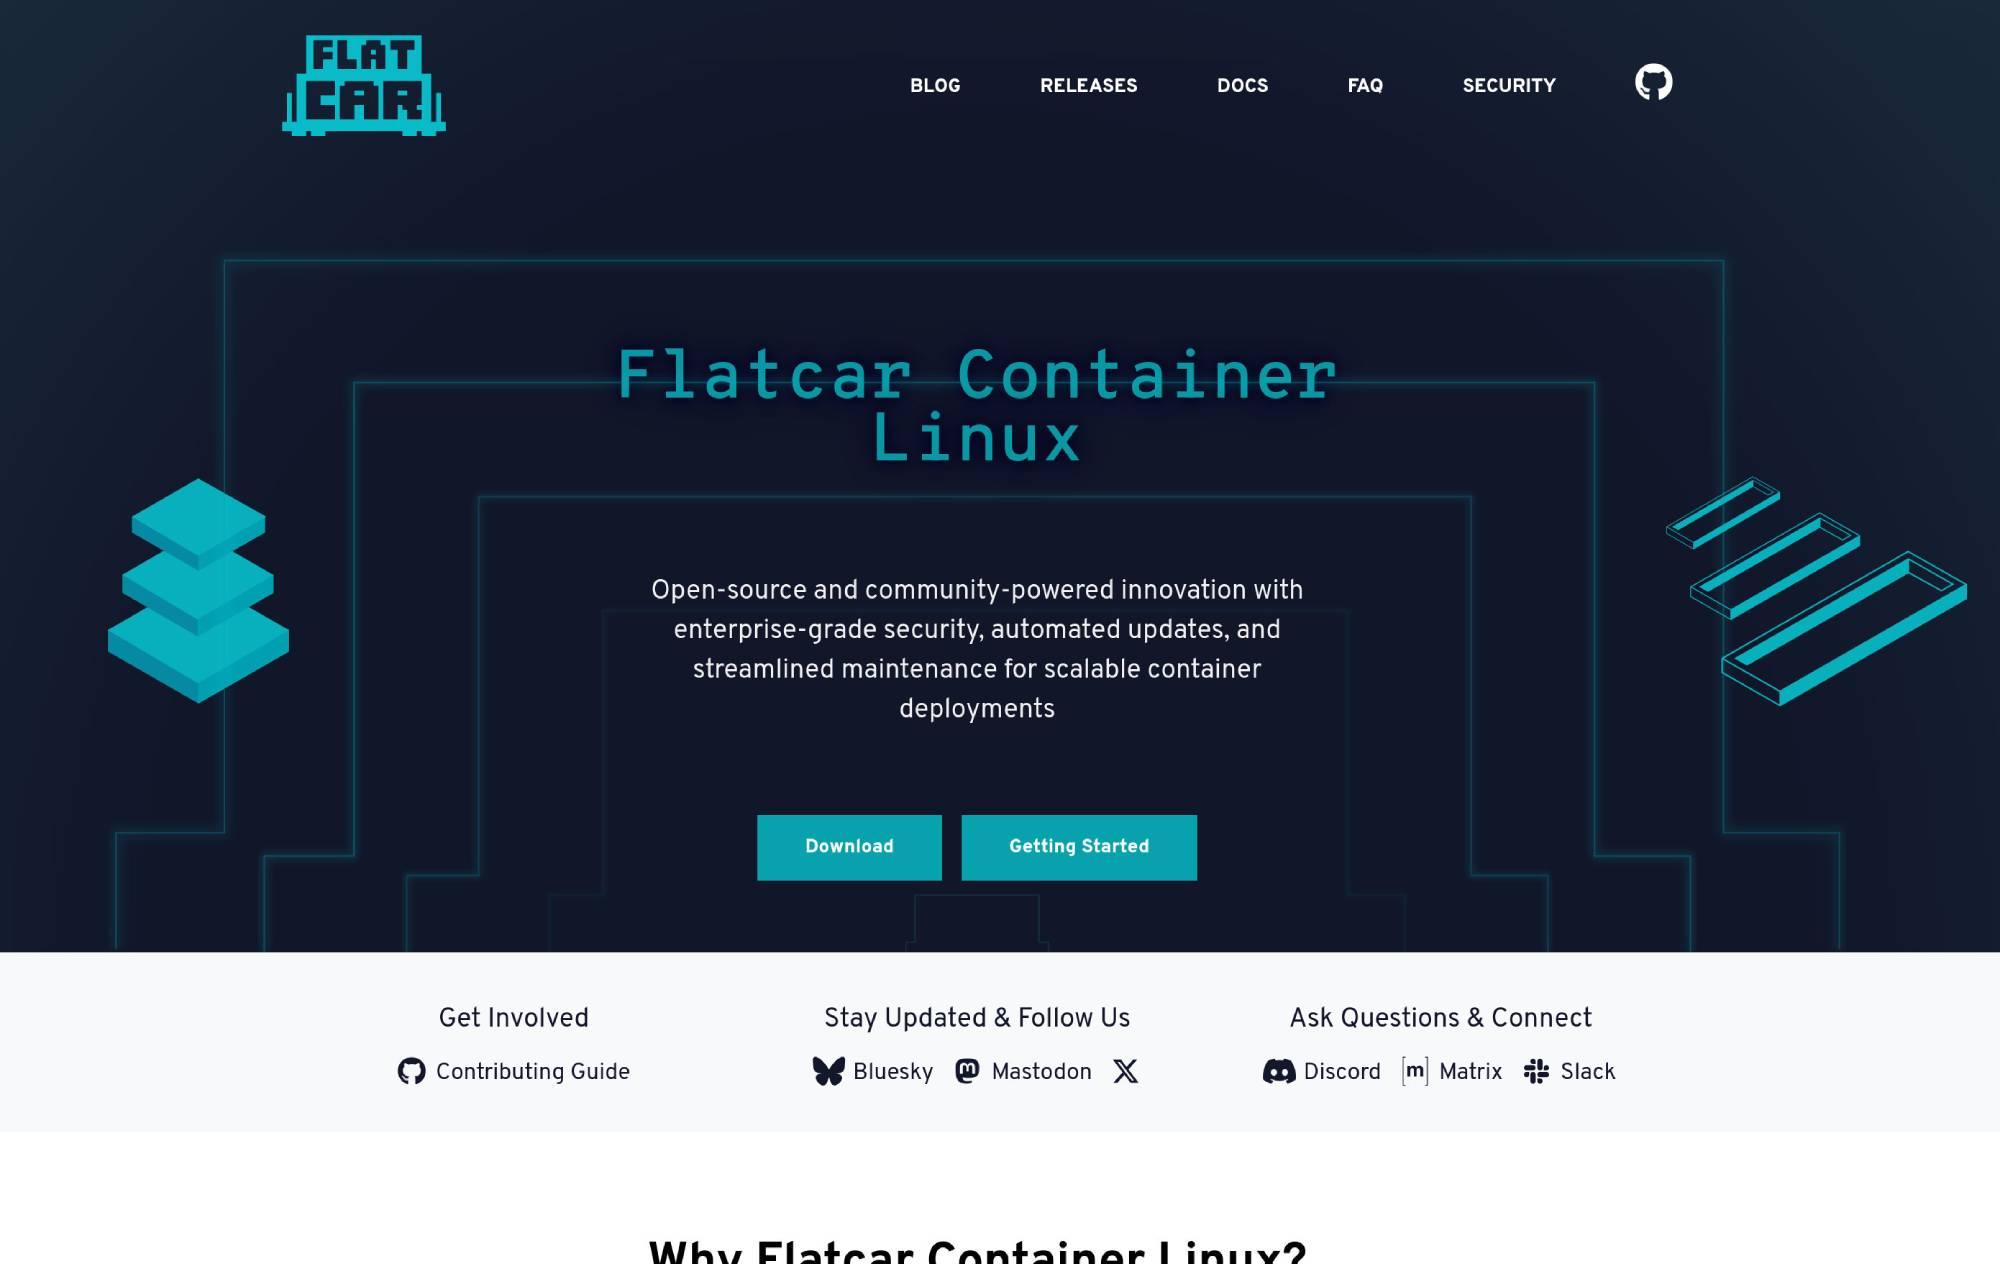
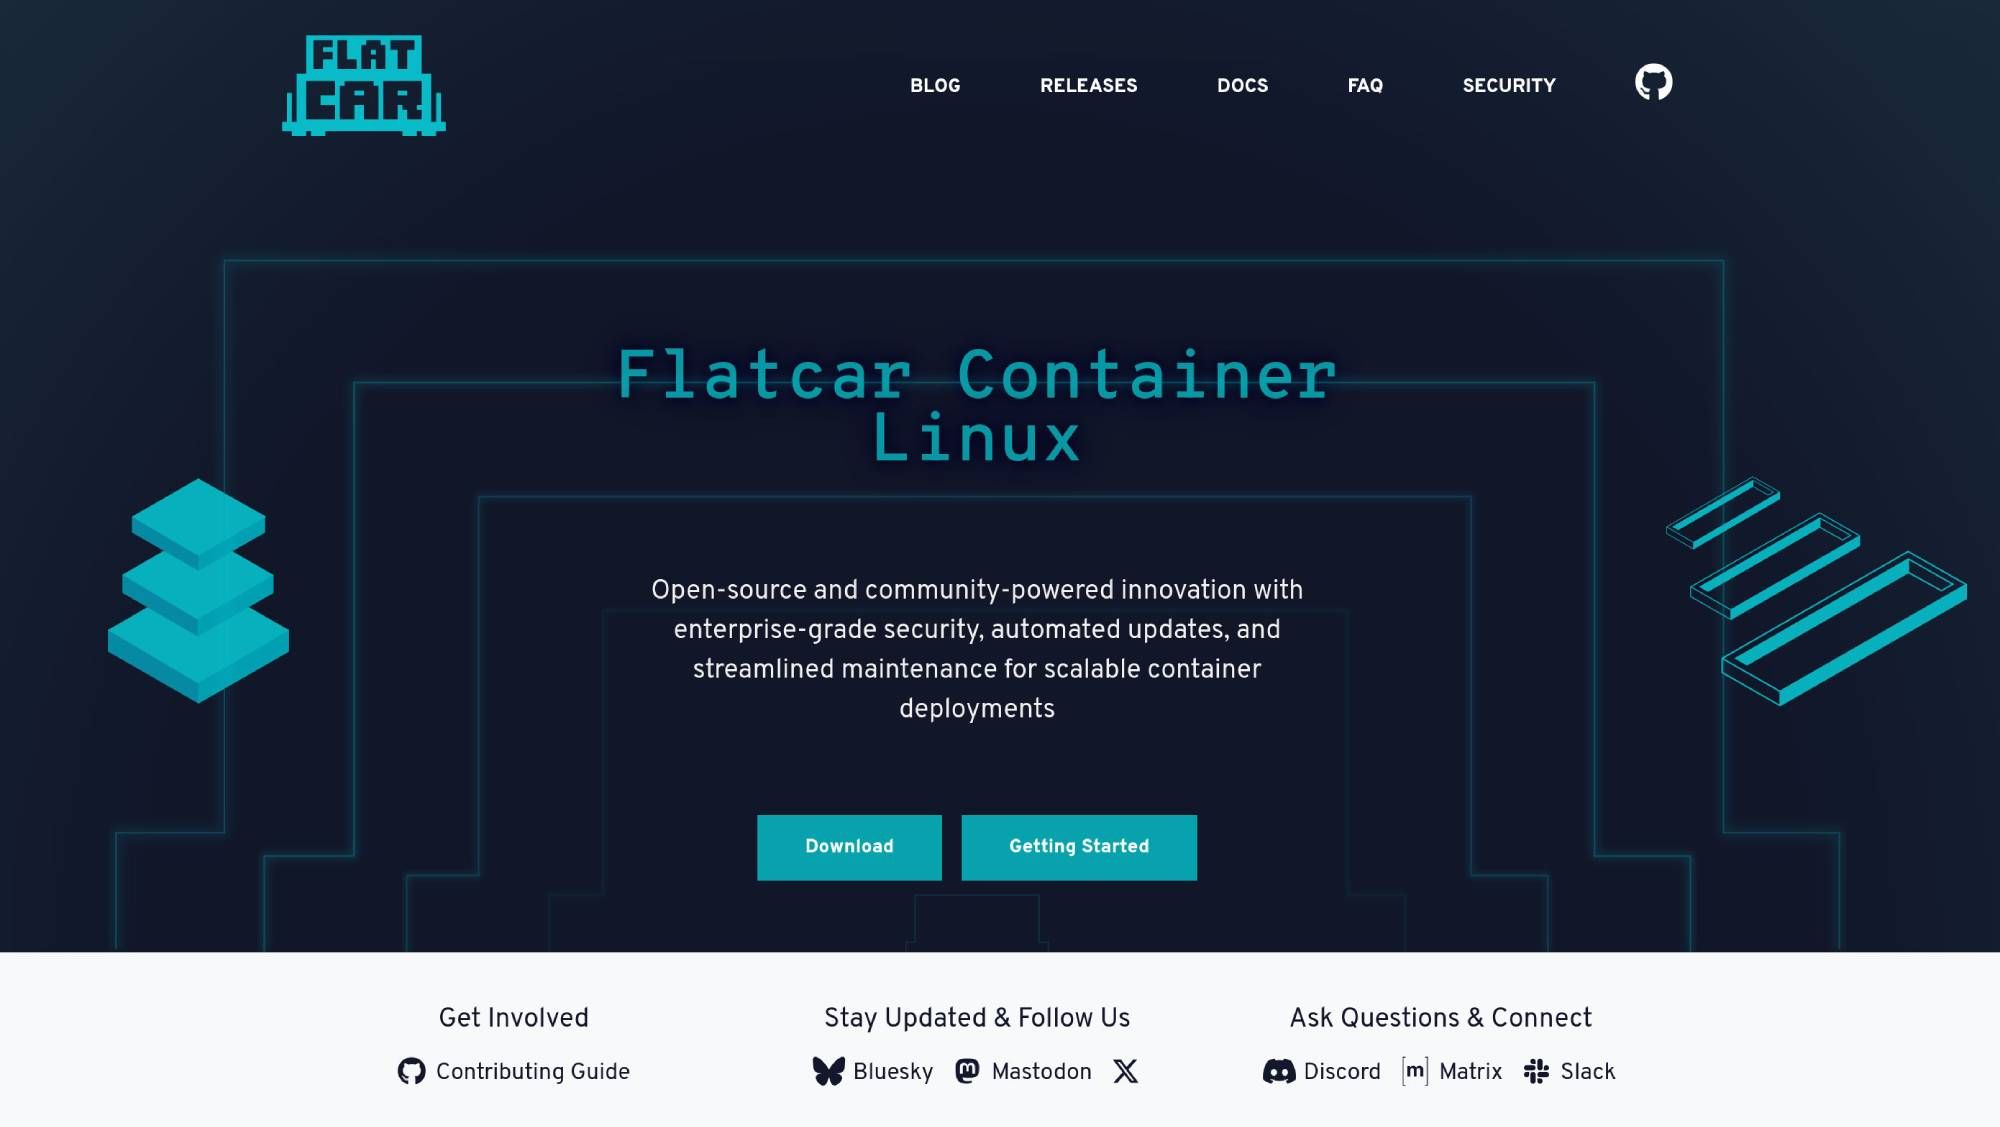
newest blog source deploy Mon May 25 09:58:39 AM PDT 2026

diff --git a/_writing/2025-06-10-DIY-Serverless-(coreOS-+-dokploy).md b/_writing/2025-06-10-DIY-Serverless-(coreOS-+-dokploy).md
@@ -57,6 +57,8 @@ export VERSION=current
   --description flatcar-${CHANNEL}-x86
 ```
 
+<br/>
+
 ![](/assets/flatcar-dokploy/hetzner-1.jpg)
 
 Create a server from this image you uploaded, and SSH into it. Note we went slightly off of the recommended path here and didn't add an ignition file. The main thing an ignition file does is adds your SSH key to the OS image. But Hetzner adds this into your userdata already, so I found this unnecessary. You can also start your containers with an ignition file, but that's cumbersome and somewhat non-standard IMO, and that's what we have Dokploy for. So we skipped the Ignition file. Feel free to add one if you need it - either through the Hetzner CLI or paste it into "cloud init" when creating a new image from your snapshot.
@@ -70,6 +72,8 @@ Welcome to your fresh, auto-updating instance of Flatcar!
 ```bash
 ssh core@<your ip> # we'll lock this down real soon don't worry
 ```
+
+<br/>
 
 Now let's install Dokploy.
 